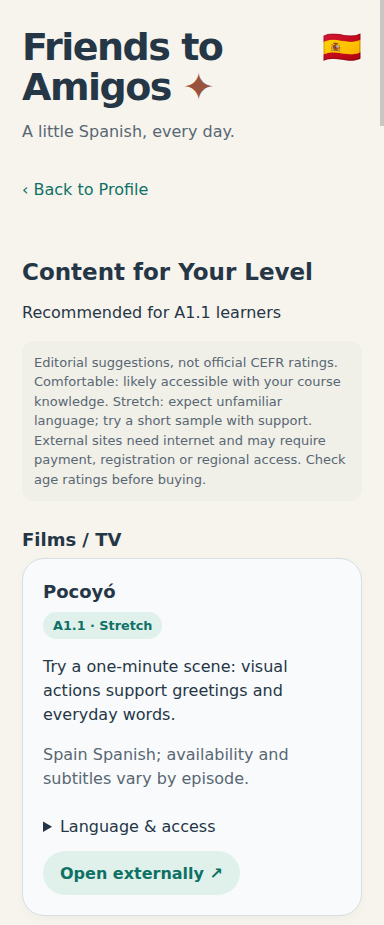
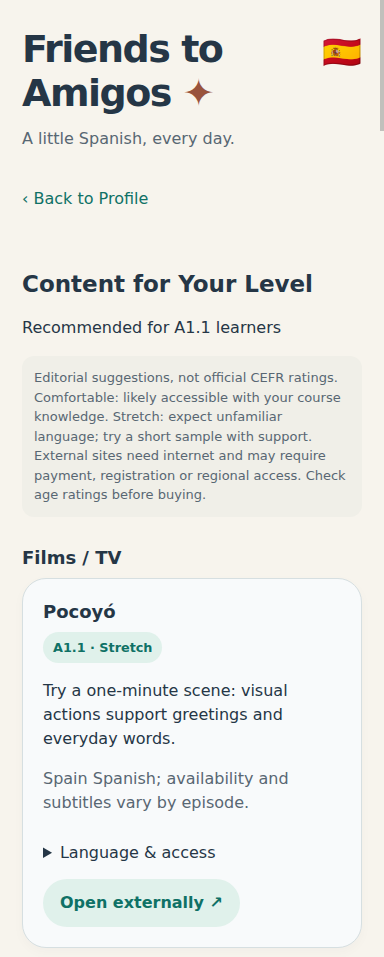
Adopt reviewed Material showcase and validate complete v1.10 release

diff --git a/docs/release/V1_10_REPORT.md b/docs/release/V1_10_REPORT.md
@@ -32,3 +32,27 @@ Native day/night/API-31 accents now match the web primary; splash/background/sys
 ## Validation
 
 Pending focused/full JS, browser, final showcase review/adoption and Android build/lint/unit/asset checks. Local browser socket restrictions require the established hosted Chromium/Android environment. No physical-device, TalkBack, native/educator validation or Material certification is claimed.
+
+## Recorded final showcase visual acceptance
+
+All fifteen exact PNGs were individually inspected by the agent from final web source commit `3bc063eba9d9587548632e1824d3708735a4ddb1`, run 42218488931. The new pill actions, legible normal-weight descriptions, outlined choices/fields, active destination capsule, light/dark surfaces, word popup, story reading, feedback and completion were approved. No clipping, horizontal overflow, navigation overlap, fake OS gaps or misleading framing was observed. All images were freshly captured; none was relabelled from v1.9. These are clean Chromium simulations at 384 CSS px / DPR 1 and semantic recorded heights, not physical-device images. Capture passed 191 semantic/geometry assertions.
+
+<!-- showcase-review: 6a711d4547181120b6fa2783104744871b50678b365be891a1e388500ab5c91a -->
+
+| Image | Theme | Viewport | Reviewed SHA-256 |
+| --- | --- | --- | --- |
[15 lines of base64/hex data omitted]

diff --git a/CONTINUE_CODEX.md b/CONTINUE_CODEX.md
@@ -9,3 +9,7 @@ Focused validation logs /tmp/m3-*.log; final focused tests and all full gates st
 Next: finish focused tests, diagnose actual failures; publish candidate to validation branch via existing GitHub connector workflow (local Git proxy/browser sandbox unavailable); capture final showcase, inspect/adopt all PNGs; run full JS/browser/audits/Android gate, verify lint has no new warnings and 93 APK assets equal source. Record exact results in report/build status. Never claim physical/TalkBack/Material certification. Do not publish main with failing checks. Update this file with candidate SHAs/run IDs if interrupted.
 
 Candidate 1: remote codex/material-v110 commit 3ad087fa2212225244cdb06611ff94498d87a0b0; run 42217883125. Capture succeeded (artifact 13502465817). Browser first-profile failure was exact legacy tile width after intended 44→48 controls; explicit <=4.1px tile allowance and contained scalable text reflow added. Local changes also recursively audit all CSS/JS and retire unused native brand_coral. Publish the current delta on top of candidate 1; retain stale screenshot block until fresh images visually reviewed/adopted. Focused 76 tests + 14 design tests passed (new full total expected 2242, verify hosted).
+
+Final UI source candidate 3bc063eba9d9587548632e1824d3708735a4ddb1; run 42218488931; capture artifact 13503040053 downloaded/extracted /tmp/m3-final-showcase. All 15 PNGs individually visually reviewed and recorded in V1_10_REPORT.md. Ready to adopt via showcase:adopt and publish gate. C2 browser run 42218267683 still executing; C3 browser executing. Local full npm test session log /tmp/m3-all-js.log still executing. Current web source frozen; no further cosmetic edits planned.
+
+Showcase adopted successfully; npm run check now passes with 15 images/current fingerprint. Publishing this complete candidate for the full release gate; keep main unchanged until green.
